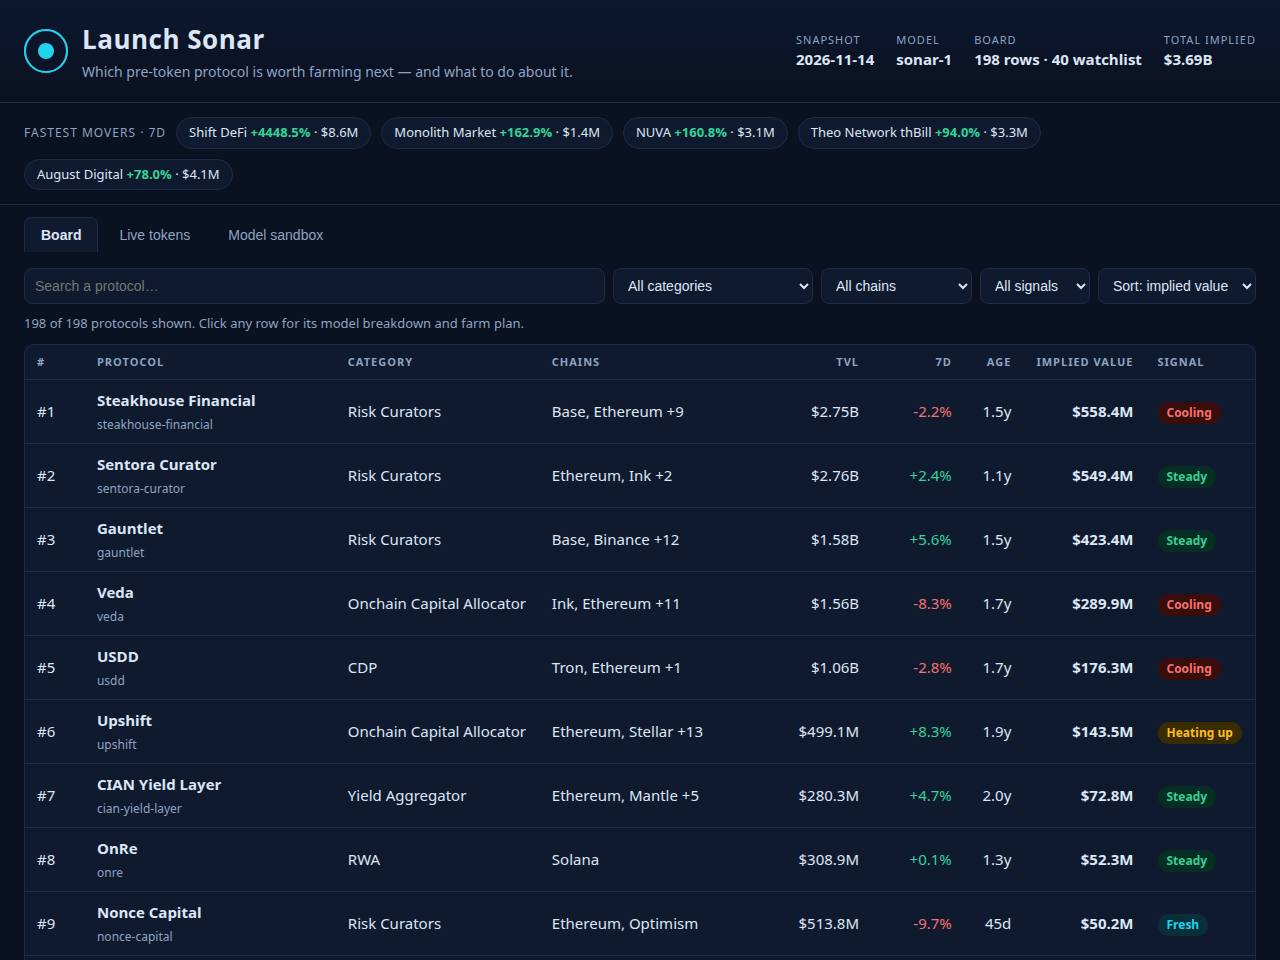
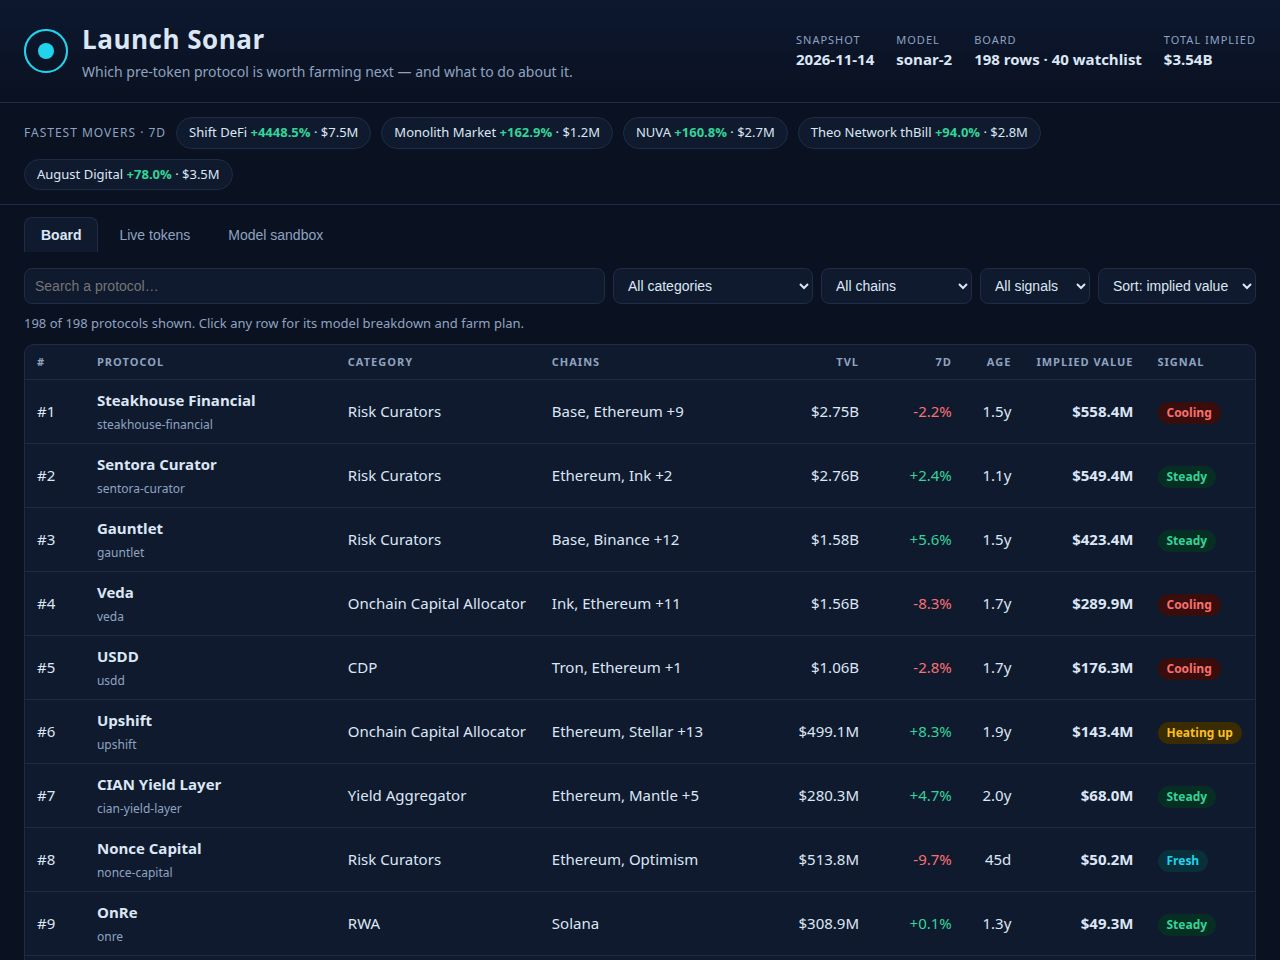
sonar-2: discount implied value for thin TVL (confidence factor)

diff --git a/lib/model.ts b/lib/model.ts
@@ -24,8 +24,13 @@
 //              Unknown age counts as 365 days.
 //   breadth  = 1 + BREADTH_WEIGHT x min(chains - 1, 8): a protocol live on more
 //              chains has more surface for a token to land on.
+//   confidence = CONFIDENCE_FLOOR + (1 - CONFIDENCE_FLOOR) x min(1, tvl /
+//              CONFIDENCE_FULL_TVL): TVL near the $50M floor is noisy — one
+//              whale's deposit or withdrawal moves it sharply — so a small
+//              protocol's implied value is discounted up to 15%, reaching full
+//              confidence only at $500M of TVL. Large protocols are untouched.
 //
-//   implied  = max(1, round(base x growthMult x windowMult x breadthMult))
+//   implied  = max(1, round(base x growthMult x windowMult x breadthMult x confidenceMult))
 //
 // Every factor is stated in the dashboard and changeable in its sandbox, which
 // re-ranks the board live from the same numbers.
@@ -66,6 +71,8 @@ export interface ModelConstants {
   unknown_age_days: number;
   breadth_weight: number;
   breadth_cap: number;
+  confidence_floor: number;
+  confidence_full_tvl_usd: number;
 }
 
 export const MODEL: ModelConstants = {
@@ -80,10 +87,12 @@ export const MODEL: ModelConstants = {
   unknown_age_days: 365,
   breadth_weight: 0.04,
   breadth_cap: 8,
+  confidence_floor: 0.85,
+  confidence_full_tvl_usd: 500_000_000,
 };
 
 /** The model's version label: the dashboard names it. */
-export const MODEL_VERSION = 'sonar-1';
+export const MODEL_VERSION = 'sonar-2';
 
 /** How many live-token protocols the Live token view carries, by market cap. */
 export const LIVE_ROWS = 20;
@@ -116,6 +125,7 @@ export interface BoardRow {
     growth_pct: number;
     growth_multiplier: number;
     maturity_multiplier: number;
+    confidence_multiplier: number;
     age_days: number | null;
   };
   farm_steps: string[];
@@ -197,13 +207,14 @@ export function ageDays(asOf: string, listedAt: string | null): number | null {
 /**
  * The four factors and the implied value one protocol gets under `model`.
  * Growth is log-damped so one wild week cannot buy the board; the window is a
- * hump peaking at two years; breadth rewards multi-chain presence.
+ * hump peaking at two years; breadth rewards multi-chain presence; confidence
+ * discounts small TVL, which one whale can move, up to 15% near the floor.
  */
 export function impliedValue(
   protocol: SnapshotProtocol,
   asOf: string,
   model: ModelConstants,
-): { implied: number; growthPct: number; growthMult: number; windowMult: number; breadthMult: number; age: number | null } {
+): { implied: number; growthPct: number; growthMult: number; windowMult: number; breadthMult: number; confidenceMult: number; age: number | null } {
   const age = ageDays(asOf, protocol.listed_at);
   const rawGrowth = finite(protocol.change_7d, 0);
   const growthPct = Math.min(model.growth_cap, Math.max(model.growth_floor, rawGrowth));
@@ -217,9 +228,12 @@ export function impliedValue(
     model.window_floor + (1 - model.window_floor) * Math.exp(-(((ageForModel - peak) / width) ** 2));
   const extraChains = Math.min(Math.max(protocol.chains.length - 1, 0), model.breadth_cap);
   const breadthMult = 1 + model.breadth_weight * extraChains;
+  const confidenceMult =
+    model.confidence_floor +
+    (1 - model.confidence_floor) * Math.min(1, protocol.tvl_usd / model.confidence_full_tvl_usd);
   const base = protocol.tvl_usd * model.base_multiple;
-  const implied = Math.max(1, Math.round(base * growthMult * windowMult * breadthMult));
-  return { implied, growthPct, growthMult, windowMult, breadthMult, age };
+  const implied = Math.max(1, Math.round(base * growthMult * windowMult * breadthMult * confidenceMult));
+  return { implied, growthPct, growthMult, windowMult, breadthMult, confidenceMult, age };
 }
 
 /** DefiLlama's version-marker rule: a name ending in a release is a pool of another protocol. */
@@ -305,8 +319,8 @@ export function buildBoard(snapshot: Snapshot, model: ModelConstants = MODEL): B
   }
 
   const scored = [...chosen.values()].map((p) => {
-    const { implied, growthPct, growthMult, windowMult, breadthMult, age } = impliedValue(p, snapshot.as_of, model);
-    return { p, implied, growthPct, growthMult, windowMult, breadthMult, age };
+    const { implied, growthPct, growthMult, windowMult, breadthMult, confidenceMult, age } = impliedValue(p, snapshot.as_of, model);
+    return { p, implied, growthPct, growthMult, windowMult, breadthMult, confidenceMult, age };
   });
   scored.sort((a, b) => b.implied - a.implied || (a.p.slug < b.p.slug ? -1 : a.p.slug > b.p.slug ? 1 : 0));
   return scored.map((s, i) => ({
@@ -329,6 +343,7 @@ export function buildBoard(snapshot: Snapshot, model: ModelConstants = MODEL): B
       growth_pct: s.growthPct,
       growth_multiplier: round4(s.growthMult),
       maturity_multiplier: round4(s.windowMult),
+      confidence_multiplier: round4(s.confidenceMult),
       age_days: s.age,
     },
     farm_steps: farmSteps(s.p, s.age).map(stepText),

diff --git a/dashboard/app.js b/dashboard/app.js
@@ -12,7 +12,7 @@ function ageOf(listed) {
   const a = Date.parse(R.as_of + 'T00:00:00Z'), b = Date.parse(listed + 'T00:00:00Z');
   return Number.isFinite(a) && Number.isFinite(b) ? Math.max(0, Math.floor((a - b) / DAY)) : null;
 }
-/* The model, exactly as lib/model.ts states it: log-damped growth, humped launch window, breadth. */
+/* The model, exactly as lib/model.ts states it: log-damped growth, humped launch window, breadth, TVL confidence. */
 function implied(r, m) {
   const g0 = r.change_7d === null || r.change_7d === undefined ? 0 : r.change_7d;
   const g = Math.min(m.growth_cap, Math.max(m.growth_floor, g0));
@@ -22,7 +22,8 @@ function implied(r, m) {
   const a = age === null ? m.unknown_age_days : age;
   const windowMult = m.window_floor + (1 - m.window_floor) * Math.exp(-(((a - m.window_peak_days) / m.window_width_days) ** 2));
   const breadthMult = 1 + m.breadth_weight * Math.min(Math.max(r.chains.length - 1, 0), m.breadth_cap);
-  return { implied: Math.max(1, Math.round(r.tvl_usd * m.base_multiple * growthMult * windowMult * breadthMult)), growthMult, windowMult, breadthMult, age };
+  const confidenceMult = m.confidence_floor + (1 - m.confidence_floor) * Math.min(1, r.tvl_usd / m.confidence_full_tvl_usd);
+  return { implied: Math.max(1, Math.round(r.tvl_usd * m.base_multiple * growthMult * windowMult * breadthMult * confidenceMult)), growthMult, windowMult, breadthMult, confidenceMult, age };
 }
 function pill(sig) {
   const cls = sig === 'Heating up' ? 'hot' : sig === 'Cooling' ? 'cold' : sig === 'Fresh' ? 'new' : 'ok';
@@ -47,9 +48,11 @@ const chains = [...new Set(R.rows.flatMap((r) => r.chains))].sort();
 $('chain').innerHTML += chains.map((c) => '<option>' + esc(c) + '</option>').join('');
 $('formula').textContent = 'implied = TVL × ' + R.model.base_multiple + ' × (1 + ' + R.model.growth_weight +
   ' × log-damped 7d momentum) × launch-window hump (peak ' + R.model.window_peak_days +
-  'd, floor ' + R.model.window_floor + ') × (1 + ' + R.model.breadth_weight + ' × extra chains)\n' +
+  'd, floor ' + R.model.window_floor + ') × (1 + ' + R.model.breadth_weight + ' × extra chains) × TVL confidence (' +
+  R.model.confidence_floor + ' at the floor, full at $' + (R.model.confidence_full_tvl_usd / 1e6) + 'M)\n' +
   'A token that does not exist yet is worth a slice of the value already parked, pulled toward launches ' +
-  'in their second year and toward protocols live on more chains — never a hardcoded list of names.';
+  'in their second year and toward protocols live on more chains — and discounted where the TVL itself ' +
+  'is thin enough for one whale to move it — never a hardcoded list of names.';
 $('source').textContent = 'Data: ' + R.source + '. ' + R.excluded.versioned + ' versioned pools, ' +
   R.excluded.wrapped + ' wrapped / staked / bridged products and ' + R.excluded.exchange +
   ' exchange products were left off the board with their reasons counted above.';
@@ -124,6 +127,7 @@ function openDetail(slug) {
     '<tr><td>Growth · log-damped momentum</td><td>× ' + f.growthMult.toFixed(3) + '</td></tr>' +
     '<tr><td>Launch window · peak ' + R.model.window_peak_days + ' days</td><td>× ' + f.windowMult.toFixed(3) + '</td></tr>' +
     '<tr><td>Breadth · ' + r.chains.length + ' chain' + (r.chains.length === 1 ? '' : 's') + '</td><td>× ' + f.breadthMult.toFixed(3) + '</td></tr>' +
+    '<tr><td>Confidence · TVL ' + money(r.tvl_usd) + '</td><td>× ' + f.confidenceMult.toFixed(3) + '</td></tr>' +
     '<tr><td><b>Implied value</b></td><td><b>' + moneyFull(r.implied_value_usd) + '</b></td></tr></table>' +
     '<p>' + pill(r.signal) + ' ' + r.flags.map((x) => '<span class="flag">' + esc(x) + '</span>').join('') + '</p>' +
     '<h3>Farm plan · 7 steps</h3><ol class="steps">' + farmSteps(r).map((s) =>
@@ -175,7 +179,7 @@ $('resetModel').addEventListener('click', () => {
   $('sBase').value = R.model.base_multiple; $('sGrowth').value = R.model.growth_weight;
   $('sPeak').value = R.model.window_peak_days; $('sBreadth').value = R.model.breadth_weight;
   syncSliders();
-  $('sandboxNote').textContent = 'Reset to sonar-1 defaults. Re-rank to apply.';
+  $('sandboxNote').textContent = 'Reset to sonar-2 defaults. Re-rank to apply.';
 });
 
 /* ---- deep links for screenshots: #detail=<slug>, #tab=live|model, #cat=<category>, #q=<text> ---- */

diff --git a/dashboard/index.html b/dashboard/index.html
@@ -17,7 +17,7 @@
   </div>
   <div class="meta">
     <div><span class="k">Snapshot</span><span id="asOf" class="v">—</span></div>
-    <div><span class="k">Model</span><span class="v">sonar-1</span></div>
+    <div><span class="k">Model</span><span class="v">sonar-2</span></div>
     <div><span class="k">Board</span><span id="statBoard" class="v">—</span></div>
     <div><span class="k">Total implied</span><span id="statTotal" class="v">—</span></div>
   </div>
@@ -84,7 +84,7 @@
     <label>Breadth weight <output id="oBreadth"></output><input id="sBreadth" type="range" min="0" max="0.1" step="0.005" value="0.04"></label>
   </div>
   <button id="rerank" class="btn">Re-rank the board with these settings</button>
-  <button id="resetModel" class="btn ghost">Reset to sonar-1</button>
+  <button id="resetModel" class="btn ghost">Reset to sonar-2</button>
   <p class="count" id="sandboxNote"></p>
 </section>
 

diff --git a/README.md b/README.md
@@ -11,10 +11,10 @@ pre-token protocol the brief's watchlist rule keeps — all 40 watchlist slugs p
 every other rankable protocol below the floor, 198 rows in all — by an implied
 value derived only from the snapshot's own figures. No hardcoded list of names.
 
-## The model (sonar-1)
+## The model (sonar-2)
 
 ```
-implied = TVL × 0.18 × log-damped 7-day momentum × launch-window hump × breadth
+implied = TVL × 0.18 × log-damped 7-day momentum × launch-window hump × breadth × TVL confidence
 ```
 
 - **Base** — TVL × 0.18: a launch is worth a slice of the value already parked.
@@ -23,8 +23,11 @@ implied = TVL × 0.18 × log-damped 7-day momentum × launch-window hump × brea
 - **Launch window** — a hump peaking at two years: too young is unproven, five
   years with no token has probably decided not to launch.
 - **Breadth** — live on more chains, more surface for a token to land on.
+- **Confidence** — TVL near the $50M floor is noisy (one whale can move it), so
+  implied value is discounted up to 15% there, reaching full confidence only at
+  $500M of TVL. Large protocols are untouched.
 
-Rank 1 in this snapshot: Steakhouse Financial, $558.4M implied; $3.69B total.
+Rank 1 in this snapshot: Steakhouse Financial, $558.4M implied; $3.54B total.
 
 ## The dashboard
 
